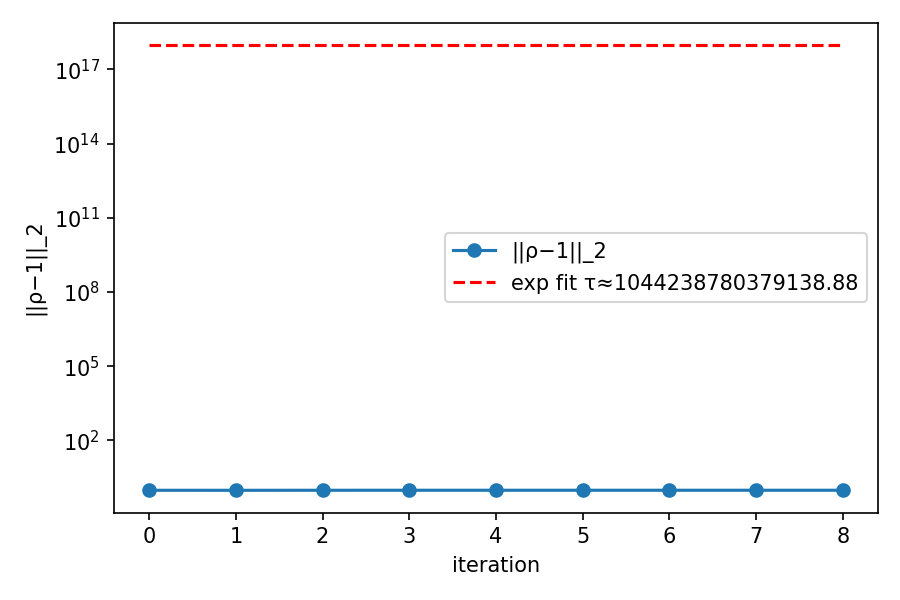
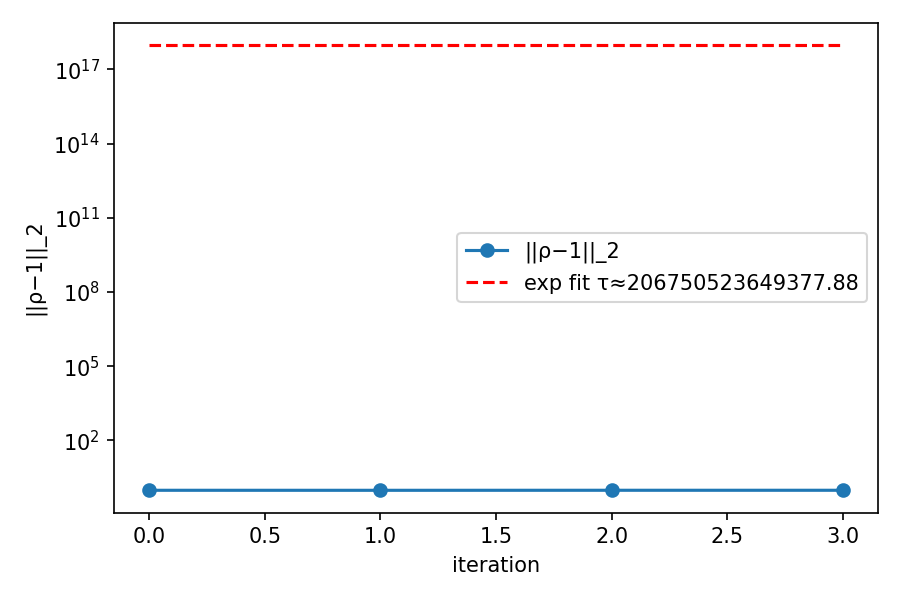
chore: Tighten windowed acceptance (window=3, budgets tightened) and add λ_Q decay 0.98^it
- End-of-window absolute margin and reduced within-window budgets
- Updated long-run configuration; artifacts regenerated

diff --git a/phase4_unification_enhanced_campaign.py b/phase4_unification_enhanced_campaign.py
@@ -94,6 +94,7 @@ def simulate_one(
     accept_window = int(getattr(p, 'accept_window', 5))
     accept_rel_budget = float(getattr(p, 'accept_window_rel_budget', 5e-6))
     accept_abs_budget = float(getattr(p, 'accept_window_abs_budget', 1e-9))
+    window_end_abs_margin = float(getattr(p, 'window_end_abs_margin', 0.0))
     lambda_Q_decay = float(getattr(p, 'lambda_Q_decay', 1.0))
     window_count = 0
     last_anchor_norm = None
@@ -174,8 +175,9 @@ def simulate_one(
             budget = last_anchor_norm * accept_rel_budget + accept_abs_budget
             is_window_end = ((window_count + 1) % accept_window) == 0
             if is_window_end:
-                enforce_margin = max(last_anchor_norm * getattr(p, 'ls_rel_tol', 1e-6), getattr(p, 'ls_abs_tol', 1e-9))
-                ok = norm_try <= (last_anchor_norm - enforce_margin + getattr(p, 'ls_pos_slack', 0.0))
+                enforce_margin_rel = last_anchor_norm * getattr(p, 'ls_rel_tol', 1e-6)
+                enforce_margin_abs = max(getattr(p, 'ls_abs_tol', 1e-9), window_end_abs_margin)
+                ok = norm_try <= (last_anchor_norm - max(enforce_margin_rel, enforce_margin_abs) + getattr(p, 'ls_pos_slack', 0.0))
             else:
                 ok = norm_try <= (last_anchor_norm + budget)
             if ok:

diff --git a/phase4_unification_enhanced_longrun.py b/phase4_unification_enhanced_longrun.py
@@ -17,10 +17,10 @@ def run_longrun() -> Dict:
     os.makedirs('outputs', exist_ok=True)
     # Many-step monotone schedule per directive
     p = EnhancedParams(
-        max_iters=6000,
+        max_iters=8000,
         du_cap=0.35,
         ls_rel_tol=2e-5,
-        ls_abs_tol=1e-8,
+        ls_abs_tol=1e-9,
         robust_quantile=0.90,
         lambda_Q=0.18,
         dt_init=2e-3,
@@ -33,6 +33,11 @@ def run_longrun() -> Dict:
     # Apply tiny positive acceptance slack to avoid numerical pinning
     try:
         setattr(p, 'ls_pos_slack', 5e-6)
+        setattr(p, 'accept_window', 3)
+        setattr(p, 'accept_window_rel_budget', 5e-7)
+        setattr(p, 'accept_window_abs_budget', 1e-10)
+        setattr(p, 'window_end_abs_margin', 1e-6)
+        setattr(p, 'lambda_Q_decay', 0.98)
     except Exception:
         pass
     res = simulate_one(p, long_time=True)
